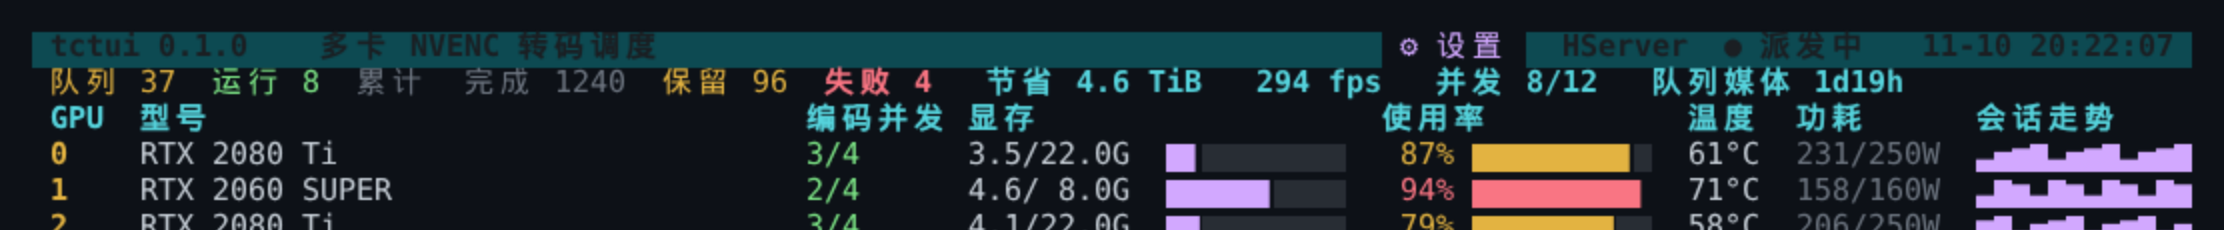
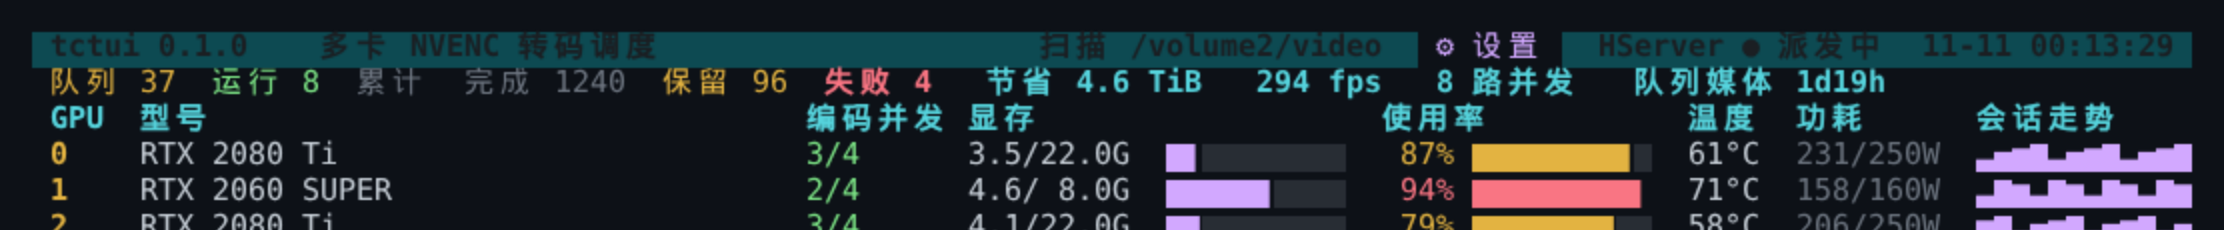
Show scan path and live daemon/scan/pause state in title and footer

Changed region(s): [[0.4654, 0.1217, 0.8687, 0.4261], [0.8997, 0.1522, 0.9308, 0.2435], [0.9618, 0.1826, 0.9928, 0.2435]]

diff --git a/lib/tctui/ui.py b/lib/tctui/ui.py
@@ -41,6 +41,9 @@ STYLES = [
     ("blue", "blue", "default", True),
     ("bar_warn", "yellow", "default", False),
     ("bar_err", "red", "default", False),
+    ("scan", "black", "blue", True),
+    ("okbg", "black", "green", True),
+    ("errbg", "white", "red", True),
 ]
 S = {name: i for i, (name, _f, _b, _bold) in enumerate(STYLES)}
 
@@ -289,12 +292,12 @@ HELP_ENTRIES = [
     ("任务", "r", "重试选中任务（失败/取消/中断/保留）"),
     ("任务", "d", "显示/隐藏详情面板"),
     ("任务", "l", "详情面板切换为任务日志"),
-    ("队列", "s", "扫描已设置的路径"),
+    ("队列", "s", "扫描当前路径（扫描时底栏显示“扫描中”）"),
     ("队列", "a", "设置扫描路径（替换）并立即扫描"),
     ("队列", "C", "清空排队任务（连按两次确认）"),
     ("队列", "T", "清零累计统计（连按两次确认）"),
-    ("队列", "Space", "暂停/恢复派发（不打断运行中的任务）"),
-    ("队列", "D", "启动 / 关闭守护进程（关闭时运行中的任务会继续）"),
+    ("队列", "Space", "暂停/恢复派发（暂停时底栏显示“暂停中”）"),
+    ("队列", "D", "启动/关闭守护（底栏显示“守护已启动 / 守护已关闭”）"),
     ("设置", "m / 点标题 ⚙ / 点底栏", "打开设置面板"),
     ("设置", "↑ ↓ / ← → / Enter", "选择、调整、切换"),
     ("设置", "点击值 / 右键", "直接修改 / 反向调整"),
@@ -586,36 +589,71 @@ class App:
         v = self.view
         scr.fill(y, 0, w, " ", S["title"])
         left = " tctui %s " % cfgmod.APP_VERSION
+        left_w = util.disp_width(left)
         scr.put(y, 0, left, S["title"])
-        state = "派发中" if v.daemon_alive else "守护未运行"
-        busy = v.hb.get("busy")
-        if busy == "scanning":
-            state = "扫描中"
-        if v.hb.get("paused"):
-            state = "已暂停派发"
+
+        clock_txt = " %s " % time.strftime("%m-%d %H:%M:%S")
+        cw = util.disp_width(clock_txt)
+        clock_x = max(0, w - cw)
+        scr.put(y, clock_x, clock_txt, S["title"])
+
+        alive = v.daemon_alive
+        paused = bool(v.hb.get("paused"))
+        scanning = v.hb.get("busy") == "scanning"
+        states = []
+        if scanning:
+            states.append("扫描中")
+        if paused:
+            states.append("已暂停")
+        if not states:
+            states.append("派发中" if alive else "守护未运行")
+        status = "%s %s " % ("●" if alive else "○", " · ".join(states))
+        if not alive:
+            sattr = S["errbg"]
+        elif paused:
+            sattr = S["pause"]
+        elif scanning:
+            sattr = S["scan"]
+        else:
+            sattr = S["title"]
+        sw = util.disp_width(status)
+        status_x = max(left_w + 1, clock_x - sw)
+        scr.put(y, status_x, status, sattr)
+
         import socket
         host = self.cfg.get("ui.host") or (socket.gethostname() or "localhost")
-        host = util.truncate_disp("HServer" if self.demo else host, 16)
-        right = " %s  %s %s " % (host, "●" if v.daemon_alive else "○", state)
-        attr = S["title"] if v.daemon_alive else S["err"]
-        if v.hb.get("paused"):
-            attr = S["pause"]
-        clock = time.strftime("%m-%d %H:%M:%S")
-        clock_txt = " %s " % clock
-        cw = util.disp_width(clock_txt)
-        rw = util.disp_width(right)
-        scr.put(y, max(0, w - cw - rw - 1), right, attr)
-        scr.put(y, max(0, w - cw), clock_txt, S["title"])
+        host = util.truncate_disp("HServer" if self.demo else host, 14)
+        host_txt = " %s " % host
+        hw = util.disp_width(host_txt)
+        host_x = status_x - hw
+        if host_x > left_w + 2:
+            scr.put(y, host_x, host_txt, S["title"])
+
         btn = " \u2699 设置 "
         bw = util.disp_width(btn)
-        bx = w - cw - rw - 1 - bw - 1
-        if bx > util.disp_width(left) + 4:
+        bx = (host_x if host_x > left_w + 2 else status_x) - bw - 1
+        if bx > left_w + 2:
             scr.put(y, bx, btn, S["accent"])
             self.hits["title"].append((bx, bx + bw, "settings"))
+
+        # current scan path, immediately left of the settings button
+        path = self.cfg.get("scan.path") or ""
+        avail = bx - left_w - 3
+        path_x = None
+        if avail >= 12:
+            shown = util.truncate_middle(path or "未设置", max(4, avail - 7))
+            seg = "扫描 %s" % shown
+            px = bx - util.disp_width(seg) - 2
+            if px > left_w + 2:
+                path_x = px
+                scr.put(y, px, "扫描 ", S["title"])
+                scr.put(y, px + 5, shown,
+                        S["pause"] if not path else S["title"])
         mid = " 多卡 NVENC 转码调度 "
-        x = util.disp_width(left) + 2
-        if x + util.disp_width(mid) < w - util.disp_width(right) - 10:
-            scr.put(y, x, mid, S["title"])
+        mx = left_w + 2
+        limit = path_x if path_x is not None else bx
+        if mx + util.disp_width(mid) + 2 < limit:
+            scr.put(y, mx, mid, S["title"])
         return y + 1
 
     def draw_summary(self, scr, y, w):
@@ -938,13 +976,21 @@ class App:
         return y
 
     def _footer_items(self):
-        items = [("q", "退出", "q"), ("?", "帮助", "?"), ("Space", "暂停", " "),
-                 ("a", "路径", "a"), ("s", "扫描", "s"), ("C", "清队", "C"),
-                 ("T", "清零", "T"),
-                 ("D", "关闭" if self.view.daemon_alive else "启动", "D"),
-                 ("m", "设置", "settings"), ("x", "取消", "x"),
-                 ("r", "重试", "r"), ("d", "详情", "d"), ("l", "日志", "l"),
-                 ("1-9", "显卡", "settings")]
+        v = self.view
+        paused = bool(v.hb.get("paused"))
+        scanning = v.hb.get("busy") == "scanning"
+        items = [("q", "退出", "q", None), ("?", "帮助", "?", None),
+                 ("Space", "暂停中" if paused else "暂停", " ",
+                  "pause" if paused else None),
+                 ("a", "路径", "a", None),
+                 ("s", "扫描中" if scanning else "扫描", "s",
+                  "scan" if scanning else None),
+                 ("C", "清队", "C", None), ("T", "清零", "T", None),
+                 ("D", "守护已启动" if v.daemon_alive else "守护已关闭", "D",
+                  "okbg" if v.daemon_alive else "errbg"),
+                 ("m", "设置", "settings", None), ("x", "取消", "x", None),
+                 ("r", "重试", "r", None), ("d", "详情", "d", None),
+                 ("l", "日志", "l", None), ("1-9", "显卡", "settings", None)]
         return items
 
     def _footer_layout(self, w):
@@ -989,7 +1035,7 @@ class App:
             row = []
             x = 1
             for it in group:
-                row.append((x, it[0], it[1], it[2]))
+                row.append((x, it[0], it[1], it[2], it[3]))
                 x += need(it) + 1
             rows.append(row)
         return rows
@@ -1022,10 +1068,17 @@ class App:
             return
         for r, row in enumerate(rows):
             y = y0 + r
-            for (x, key, label, act) in row:
-                scr.put(y, x, key, S["accent"])
-                scr.put(y, x + util.disp_width(key) + 1, label, S["dim"])
-                self.hits["footer"].append((y, x, x + util.disp_width(key) + 1 + util.disp_width(label), act))
+            for (x, key, label, act, flag) in row:
+                kw = util.disp_width(key)
+                lw = util.disp_width(label)
+                if flag:
+                    scr.fill(y, x, kw + 1 + lw, " ", S[flag])
+                    scr.put(y, x, key, S[flag])
+                    scr.put(y, x + kw + 1, label, S[flag])
+                else:
+                    scr.put(y, x, key, S["accent"])
+                    scr.put(y, x + kw + 1, label, S["dim"])
+                self.hits["footer"].append((y, x, x + kw + 1 + lw, act))
         scr.put(last, max(0, w - 2), " ", S["norm"])
 
     def _help_rows(self):

diff --git a/tests/test_core.py b/tests/test_core.py
@@ -470,6 +470,32 @@ class TestBinaryPathSetting(unittest.TestCase):
         self.assertEqual(self.app.input_buf, "")
 
 
+class TestStatusBadges(unittest.TestCase):
+    def test_title_and_footer_show_states(self):
+        tmp = tempfile.mkdtemp()
+        cfg = cfgmod.Config(home=tmp, overrides={"scan": {"path": "/volume4/NSFW/Other"}})
+        from tctui import ui
+        app = ui.App(cfg, demo=True)
+        app.reload()
+        app.view.daemon_alive = True
+        app.view.hb = {"paused": True, "busy": "scanning"}
+        scr = ui.Screen(120, 24)
+        app.draw(scr)
+        text = ui.DumpBackend(120, 24, color=False).draw(scr)
+        self.assertIn("/volume4/NSFW/Other", text)      # scan path in title
+        self.assertIn("扫描中", text)
+        self.assertIn("已暂停", text)
+        self.assertIn("暂停中", text)                    # Space badge
+        self.assertIn("守护已启动", text)                 # D badge
+        app.view.daemon_alive = False
+        app.view.hb = {}
+        scr = ui.Screen(120, 24)
+        app.draw(scr)
+        text = ui.DumpBackend(120, 24, color=False).draw(scr)
+        self.assertIn("守护未运行", text)
+        self.assertIn("守护已关闭", text)
+
+
 class TestGpuPanel(unittest.TestCase):
     def test_no_other_vram_column_and_no_dots(self):
         tmp = tempfile.mkdtemp()
@@ -502,7 +528,7 @@ class TestFooterHelp(unittest.TestCase):
 
     def _actions(self, w=120):
         rows = self.app._footer_layout(w)
-        return [a for row in rows for (_x, _k, _l, a) in row], rows
+        return [a for row in rows for (_x, _k, _l, a, _f) in row], rows
 
     def test_footer_lists_every_shortcut(self):
         actions, rows = self._actions(120)

diff --git a/README.md b/README.md
@@ -2,7 +2,10 @@
 
 把 NAS 上的影视库批量转成 H.265，用多张 NVIDIA 卡并行，界面类似 `nvtop`：
 上面是每张卡的编码会话 / 显存 / 利用率 / 温度 / 功耗 / 队列，下面是任务进度，
-底部是选中任务的详情或日志。
+底部是选中任务的详情或日志。顶部会显示**当前扫描路径**和实时状态（扫描中 / 已暂停 / 守护未运行），
+底栏在特殊状态下用底色提示：
+
+![状态提示](docs/preview-states.png)
 
 设计上刻意分成两个独立进程，互不依赖：
 
@@ -131,10 +134,10 @@ cd /volume1/docker/ffmpeg-tui && ./tctui daemon --start
 |----|------|
 | `q` | 退出界面（守护进程继续跑） |
 | `↑ ↓` / `PgUp PgDn` | 选择任务 |
-| `Space` | 暂停/恢复**派发**（运行中的任务不中断） |
-| `s` | 扫描已设置的路径，新任务入队 |
+| `Space` | 暂停/恢复**派发**（运行中的任务不中断）；暂停时底栏变黄显示「暂停中」 |
+| `s` | 扫描当前路径，新任务入队；扫描时底栏变蓝显示「扫描中」 |
 | `a` | 设置扫描路径（替换旧的）并立即扫描，支持中文路径 |
-| `D` | 启动 / **关闭**守护进程（关闭时再按一次 D 确认；运行中的 ffmpeg 会继续跑完，重启 daemon 后接管收尾） |
+| `D` | 启动 / **关闭**守护进程；底栏绿底显示「守护已启动」、红底显示「守护已关闭」，关闭时再按一次 D 确认 |
 | `x` | 取消选中任务（SIGTERM worker，自动还原源文件） |
 | `C` | 清空**排队**任务（按两次确认；运行中的不受影响，见下） |
 | `T` | 清零累计统计（完成/保留/失败 + 节省，按两次确认；只清记录不动文件） |
